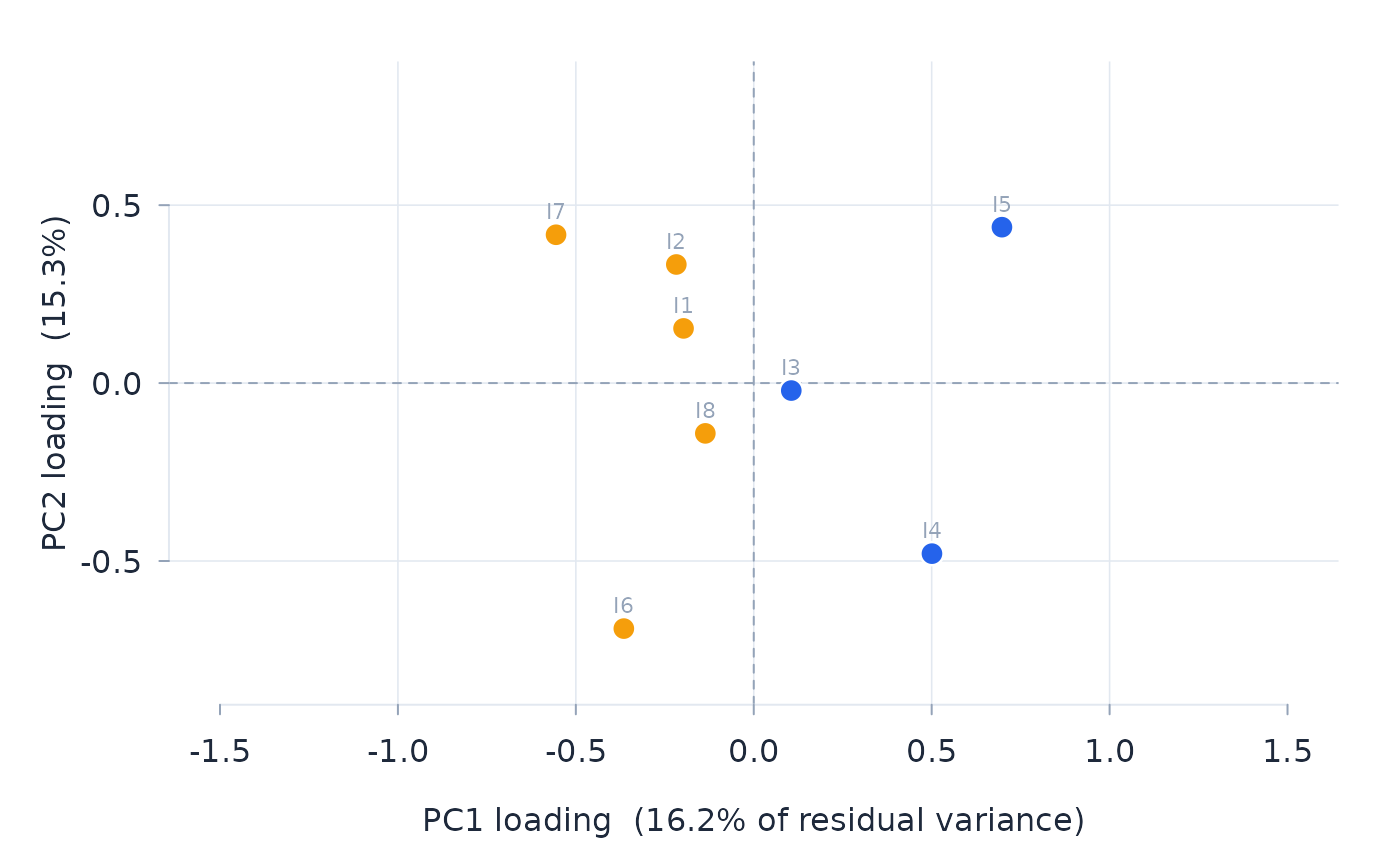
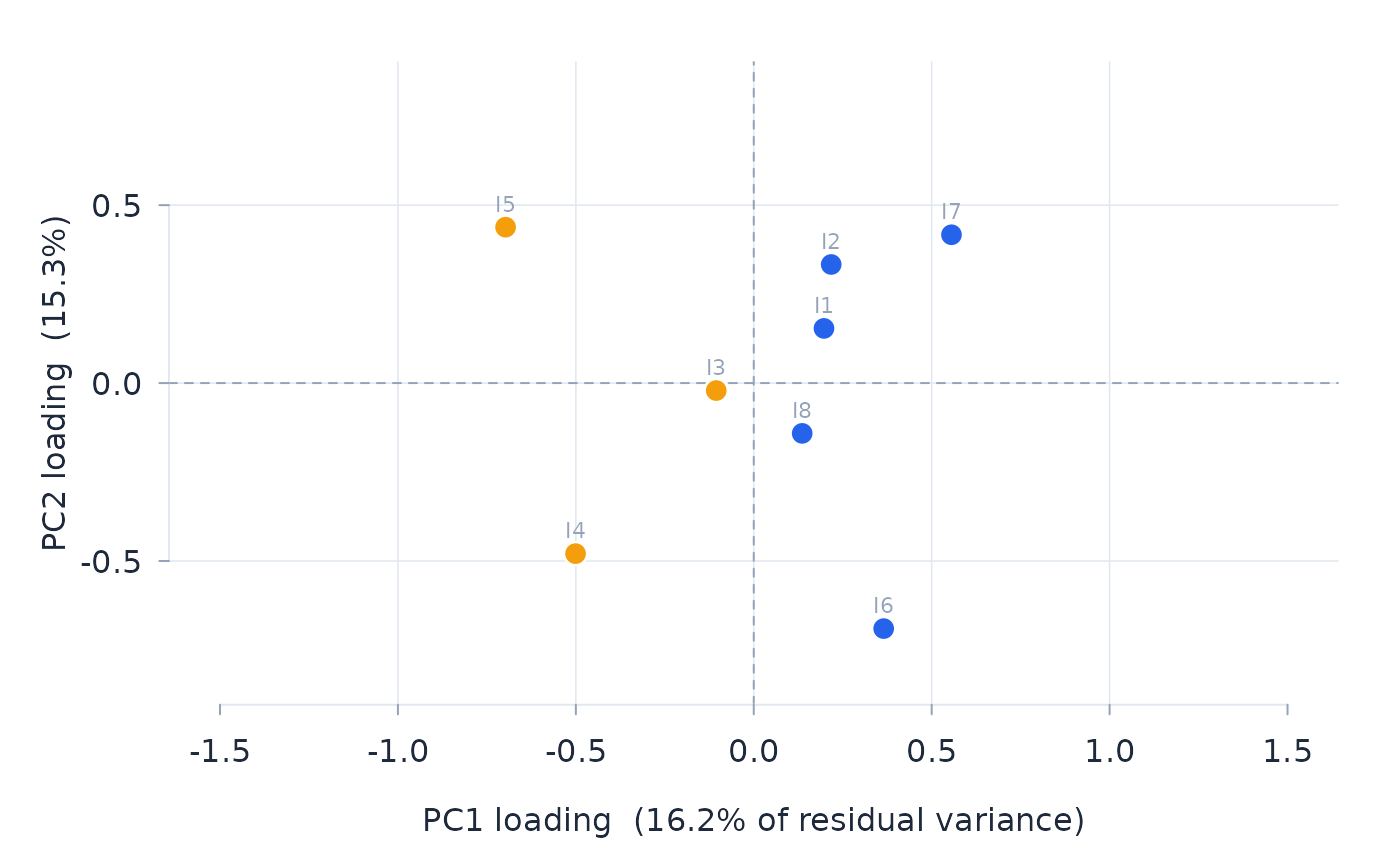
Deploying to gh-pages from @ drjoshmcgrane/rasch@56587bdcab67bd15ef627fd346ffbeb493d12bf0 🚀

diff --git a/news/index.html b/news/index.html
@@ -7,7 +7,7 @@
 
     <a class="navbar-brand me-2" href="../index.html">rasch</a>
 
-    <small class="nav-text text-muted me-auto" data-bs-toggle="tooltip" data-bs-placement="bottom" title="">1.11.2</small>
+    <small class="nav-text text-muted me-auto" data-bs-toggle="tooltip" data-bs-placement="bottom" title="">1.11.3</small>
 
 
     <button class="navbar-toggler" type="button" data-bs-toggle="collapse" data-bs-target="#navbar" aria-controls="navbar" aria-expanded="false" aria-label="Toggle navigation">
@@ -38,6 +38,20 @@
       <small>Source: <a href="https://github.com/drjoshmcgrane/rasch/blob/master/NEWS.md" class="external-link"><code>NEWS.md</code></a></small>
     </div>
 
+    <div class="section level2">
+<h2 class="pkg-version" data-toc-text="1.11.3" id="rasch-1113">rasch 1.11.3<a class="anchor" aria-label="anchor" href="#rasch-1113"></a></h2>
+<p>Fifth review round: seven findings, all verified and closed.</p>
+<ul><li>Every public estimator now rejects fractional scores before integer coercion could truncate them: <code><a href="../reference/pcml.html">pcml()</a></code>, <code><a href="../reference/pcml_pc.html">pcml_pc()</a></code>, and <code><a href="../reference/rasch_mfrm.html">rasch_mfrm()</a></code> truncated 1.9 to 1 silently, and graded <code><a href="../reference/btl.html">btl()</a></code> rounded it; only <code><a href="../reference/rasch.html">rasch()</a></code> rejected. One shared guard serves all entry points.</li>
+<li>
+<code><a href="../reference/item_moments.html">item_moments()</a></code> is overflow-stable (log-sum-exp): a 31-category item, or wide categories with a large discrimination, overflowed the uncentred exponent and turned every <code><a href="../reference/person_wle.html">person_wle()</a></code> location NA.</li>
+<li>When the judge-clustered covariance is rank-deficient (clusters &lt;= parameters) the OSI is withheld as NA – understated SEs would overstate the separation reliability – and the note now spells out how to read the marginal SEs and dependence tests. The SEs themselves stay reported: they are consistent estimates whose understatement is disclosed, which is standard few-cluster practice.</li>
+<li>
+<code><a href="../reference/btl_efrm.html">btl_efrm()</a></code> rejects a judge assigned to more than one panel (a panel is a judge attribute; the judge bootstrap would otherwise silently reclassify rows).</li>
+<li>Undefined diagnostics are NA, not numbers: Cronbach’s alpha under zero total-score variance (was -Inf), and the omnibus item-trait test when no item is testable (was chi-square 0 on 0 df with p = 1).</li>
+<li>
+<code><a href="../reference/simulate_rasch.html">simulate_rasch()</a></code>’s secondary trait keeps the requested mean and sd (combining two mean-mu components had shifted the mean by the factor rho + sqrt(1 - rho^2)) and is returned in the truth metadata.</li>
+<li>The MLE score-table root drops the common discrimination, which cancels from the ML equation exactly as it does from Warm’s (ordinary unit-discrimination fits were unaffected).</li>
+</ul></div>
     <div class="section level2">
 <h2 class="pkg-version" data-toc-text="1.11.2" id="rasch-1112">rasch 1.11.2<a class="anchor" aria-label="anchor" href="#rasch-1112"></a></h2>
 <p>Edge cases from the fourth review round, verified and closed:</p>

diff --git a/articles/plant-and-detect.html b/articles/plant-and-detect.html
@@ -27,7 +27,7 @@
 
     <a class="navbar-brand me-2" href="../index.html">rasch</a>
 
-    <small class="nav-text text-muted me-auto" data-bs-toggle="tooltip" data-bs-placement="bottom" title="">1.11.2</small>
+    <small class="nav-text text-muted me-auto" data-bs-toggle="tooltip" data-bs-placement="bottom" title="">1.11.3</small>
 
 
     <button class="navbar-toggler" type="button" data-bs-toggle="collapse" data-bs-target="#navbar" aria-controls="navbar" aria-expanded="false" aria-label="Toggle navigation">
@@ -102,9 +102,10 @@ that made it.</p>
 <span><span class="co">#&gt; Model-conforming (no departures planted).</span></span>
 <span><span class="fu"><a href="https://rdrr.io/r/base/names.html" class="external-link">names</a></span><span class="op">(</span><span class="fu"><a href="https://rdrr.io/r/base/attr.html" class="external-link">attr</a></span><span class="op">(</span><span class="va">d</span>, <span class="st">"truth"</span><span class="op">)</span><span class="op">)</span>            <span class="co"># the truth travels with the data</span></span>
 <span><span class="co">#&gt;  [1] "layout"         "description"    "model"          "n_persons"     </span></span>
-<span><span class="co">#&gt;  [5] "n_items"        "theta"          "difficulty"     "thresholds"    </span></span>
-<span><span class="co">#&gt;  [9] "discrimination" "guessing"       "groups"         "dim_items"     </span></span>
-<span><span class="co">#&gt; [13] "dif_items"      "careless_idx"   "style_idx"      "planted"</span></span></code></pre></div>
+<span><span class="co">#&gt;  [5] "n_items"        "theta"          "theta2"         "difficulty"    </span></span>
+<span><span class="co">#&gt;  [9] "thresholds"     "discrimination" "guessing"       "groups"        </span></span>
+<span><span class="co">#&gt; [13] "dim_items"      "dif_items"      "careless_idx"   "style_idx"     </span></span>
+<span><span class="co">#&gt; [17] "planted"</span></span></code></pre></div>
 <p>With no departures requested the data conform to the model, and the
 print method says so. The rest of this vignette plants one fault at a
 time and runs the diagnostic built to find it. The diagnostics

diff --git a/authors.html b/authors.html
@@ -7,7 +7,7 @@
 
     <a class="navbar-brand me-2" href="index.html">rasch</a>
 
-    <small class="nav-text text-muted me-auto" data-bs-toggle="tooltip" data-bs-placement="bottom" title="">1.11.2</small>
+    <small class="nav-text text-muted me-auto" data-bs-toggle="tooltip" data-bs-placement="bottom" title="">1.11.3</small>
 
 
     <button class="navbar-toggler" type="button" data-bs-toggle="collapse" data-bs-target="#navbar" aria-controls="navbar" aria-expanded="false" aria-label="Toggle navigation">
@@ -52,13 +52,13 @@
 
       <p>McGrane J (2026).
 <em>rasch: Pairwise Conditional Rasch Measurement Analysis and Diagnostics</em>.
-R package version 1.11.2, <a href="https://drjoshmcgrane.github.io/rasch/">https://drjoshmcgrane.github.io/rasch/</a>.
+R package version 1.11.3, <a href="https://drjoshmcgrane.github.io/rasch/">https://drjoshmcgrane.github.io/rasch/</a>.
 </p>
       <pre>@Manual{,
   title = {rasch: Pairwise Conditional Rasch Measurement Analysis and Diagnostics},
   author = {Josh McGrane},
   year = {2026},
-  note = {R package version 1.11.2},
+  note = {R package version 1.11.3},
   url = {https://drjoshmcgrane.github.io/rasch/},
 }</pre>
     </div>

diff --git a/reference/sim_recovery.html b/reference/sim_recovery.html
@@ -19,7 +19,7 @@ identifies them only up to an origin.'><meta property="og:image" content="https:
 
     <a class="navbar-brand me-2" href="../index.html">rasch</a>
 
-    <small class="nav-text text-muted me-auto" data-bs-toggle="tooltip" data-bs-placement="bottom" title="">1.11.2</small>
+    <small class="nav-text text-muted me-auto" data-bs-toggle="tooltip" data-bs-placement="bottom" title="">1.11.3</small>
 
 
     <button class="navbar-toggler" type="button" data-bs-toggle="collapse" data-bs-target="#navbar" aria-controls="navbar" aria-expanded="false" aria-label="Toggle navigation">
@@ -92,7 +92,7 @@ identifies them only up to an origin.</p>
 <span class="r-in"><span><span class="fu">sim_recovery</span><span class="op">(</span><span class="fu"><a href="rasch.html">rasch</a></span><span class="op">(</span><span class="va">d</span>, id <span class="op">=</span> <span class="st">"id"</span><span class="op">)</span>, <span class="va">d</span><span class="op">)</span><span class="op">$</span><span class="va">summary</span></span></span>
 <span class="r-out co"><span class="r-pr">#&gt;</span>         parameter   n correlation      rmse          bias</span>
 <span class="r-out co"><span class="r-pr">#&gt;</span> 1 item difficulty  12   0.9980002 0.1703475  5.087986e-17</span>
-<span class="r-out co"><span class="r-pr">#&gt;</span> 2  person ability 500   0.8177074 0.6756437 -2.833454e-18</span>
+<span class="r-out co"><span class="r-pr">#&gt;</span> 2  person ability 500   0.8177074 0.6756437 -9.333029e-18</span>
 </code></pre></div>
     </div>
   </main><aside class="col-md-3"><nav id="toc" aria-label="Table of contents"><h2>On this page</h2>

diff --git a/404.html b/404.html
@@ -28,7 +28,7 @@
 
     <a class="navbar-brand me-2" href="https://drjoshmcgrane.github.io/rasch/index.html">rasch</a>
 
-    <small class="nav-text text-muted me-auto" data-bs-toggle="tooltip" data-bs-placement="bottom" title="">1.11.2</small>
+    <small class="nav-text text-muted me-auto" data-bs-toggle="tooltip" data-bs-placement="bottom" title="">1.11.3</small>
 
 
     <button class="navbar-toggler" type="button" data-bs-toggle="collapse" data-bs-target="#navbar" aria-controls="navbar" aria-expanded="false" aria-label="Toggle navigation">

diff --git a/LICENSE-text.html b/LICENSE-text.html
@@ -7,7 +7,7 @@
 
     <a class="navbar-brand me-2" href="index.html">rasch</a>
 
-    <small class="nav-text text-muted me-auto" data-bs-toggle="tooltip" data-bs-placement="bottom" title="">1.11.2</small>
+    <small class="nav-text text-muted me-auto" data-bs-toggle="tooltip" data-bs-placement="bottom" title="">1.11.3</small>
 
 
     <button class="navbar-toggler" type="button" data-bs-toggle="collapse" data-bs-target="#navbar" aria-controls="navbar" aria-expanded="false" aria-label="Toggle navigation">

diff --git a/articles/index.html b/articles/index.html
@@ -7,7 +7,7 @@
 
     <a class="navbar-brand me-2" href="../index.html">rasch</a>
 
-    <small class="nav-text text-muted me-auto" data-bs-toggle="tooltip" data-bs-placement="bottom" title="">1.11.2</small>
+    <small class="nav-text text-muted me-auto" data-bs-toggle="tooltip" data-bs-placement="bottom" title="">1.11.3</small>
 
 
     <button class="navbar-toggler" type="button" data-bs-toggle="collapse" data-bs-target="#navbar" aria-controls="navbar" aria-expanded="false" aria-label="Toggle navigation">

diff --git a/index.html b/index.html
@@ -32,7 +32,7 @@
 
     <a class="navbar-brand me-2" href="index.html">rasch</a>
 
-    <small class="nav-text text-muted me-auto" data-bs-toggle="tooltip" data-bs-placement="bottom" title="">1.11.2</small>
+    <small class="nav-text text-muted me-auto" data-bs-toggle="tooltip" data-bs-placement="bottom" title="">1.11.3</small>
 
 
     <button class="navbar-toggler" type="button" data-bs-toggle="collapse" data-bs-target="#navbar" aria-controls="navbar" aria-expanded="false" aria-label="Toggle navigation">

diff --git a/reference/btl.html b/reference/btl.html
@@ -31,7 +31,7 @@ graph must remain connected."><meta property="og:image" content="https://drjoshm
 
     <a class="navbar-brand me-2" href="../index.html">rasch</a>
 
-    <small class="nav-text text-muted me-auto" data-bs-toggle="tooltip" data-bs-placement="bottom" title="">1.11.2</small>
+    <small class="nav-text text-muted me-auto" data-bs-toggle="tooltip" data-bs-placement="bottom" title="">1.11.3</small>
 
 
     <button class="navbar-toggler" type="button" data-bs-toggle="collapse" data-bs-target="#navbar" aria-controls="navbar" aria-expanded="false" aria-label="Toggle navigation">

diff --git a/reference/btl_dif.html b/reference/btl_dif.html
@@ -39,7 +39,7 @@ comparisons enter all tests with their weights."><meta property="og:image" conte
 
     <a class="navbar-brand me-2" href="../index.html">rasch</a>
 
-    <small class="nav-text text-muted me-auto" data-bs-toggle="tooltip" data-bs-placement="bottom" title="">1.11.2</small>
+    <small class="nav-text text-muted me-auto" data-bs-toggle="tooltip" data-bs-placement="bottom" title="">1.11.3</small>
 
 
     <button class="navbar-toggler" type="button" data-bs-toggle="collapse" data-bs-target="#navbar" aria-controls="navbar" aria-expanded="false" aria-label="Toggle navigation">

diff --git a/reference/btl_dimensionality.html b/reference/btl_dimensionality.html
@@ -65,7 +65,7 @@ here, slightly liberal in tiny designs."><meta property="og:image" content="http
 
     <a class="navbar-brand me-2" href="../index.html">rasch</a>
 
-    <small class="nav-text text-muted me-auto" data-bs-toggle="tooltip" data-bs-placement="bottom" title="">1.11.2</small>
+    <small class="nav-text text-muted me-auto" data-bs-toggle="tooltip" data-bs-placement="bottom" title="">1.11.3</small>
 
 
     <button class="navbar-toggler" type="button" data-bs-toggle="collapse" data-bs-target="#navbar" aria-controls="navbar" aria-expanded="false" aria-label="Toggle navigation">

diff --git a/reference/btl_efrm.html b/reference/btl_efrm.html
@@ -29,7 +29,7 @@ phi_g (v_a - v_b), which places the sets on one common scale."><meta property="o
 
     <a class="navbar-brand me-2" href="../index.html">rasch</a>
 
-    <small class="nav-text text-muted me-auto" data-bs-toggle="tooltip" data-bs-placement="bottom" title="">1.11.2</small>
+    <small class="nav-text text-muted me-auto" data-bs-toggle="tooltip" data-bs-placement="bottom" title="">1.11.3</small>
 
 
     <button class="navbar-toggler" type="button" data-bs-toggle="collapse" data-bs-target="#navbar" aria-controls="navbar" aria-expanded="false" aria-label="Toggle navigation">